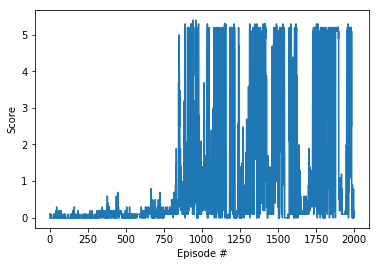
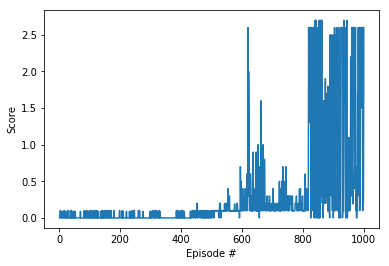
update report/images

diff --git a/ddpg_agent.py b/ddpg_agent.py
@@ -78,7 +78,7 @@ class Agent():
         self.actor_local.train()
         if add_noise:
             # Add some noise to each agent's actions
-            # Assists in exploration during the begining of training
+            # Assists in exploration during the begining of episode training
             for i, j in enumerate(action):
                 action[i] += self.noise.sample()
         

diff --git a/REPORT.md b/REPORT.md
@@ -62,13 +62,13 @@ LR_CRITIC = 1e-3        # learning rate of the critic
 WEIGHT_DECAY = 0        # L2 weight decay
 UPDATE_EVERY = 2        # update frequency from timesteps
 NOISE_DECAY = 1e-3      # rate of noise decay (lessens noise in actions every timestep)
-n_episodes = 2000
+n_episodes = 1000
 max_t = 1000
 ```
 
 #### Training Results
 
-As shown the following plot demonstrates that the environment was solved in 900 episodes based on an average score taken over all agents (2) over 100 consecutive episodes (Score of > +0.5).
+As shown the following plot demonstrates that the environment was solved in 900 episodes based on a max score taken over all agents (2) over 100 consecutive episode average. (Score of > +0.5).
 
 Training progress per episode:
 
